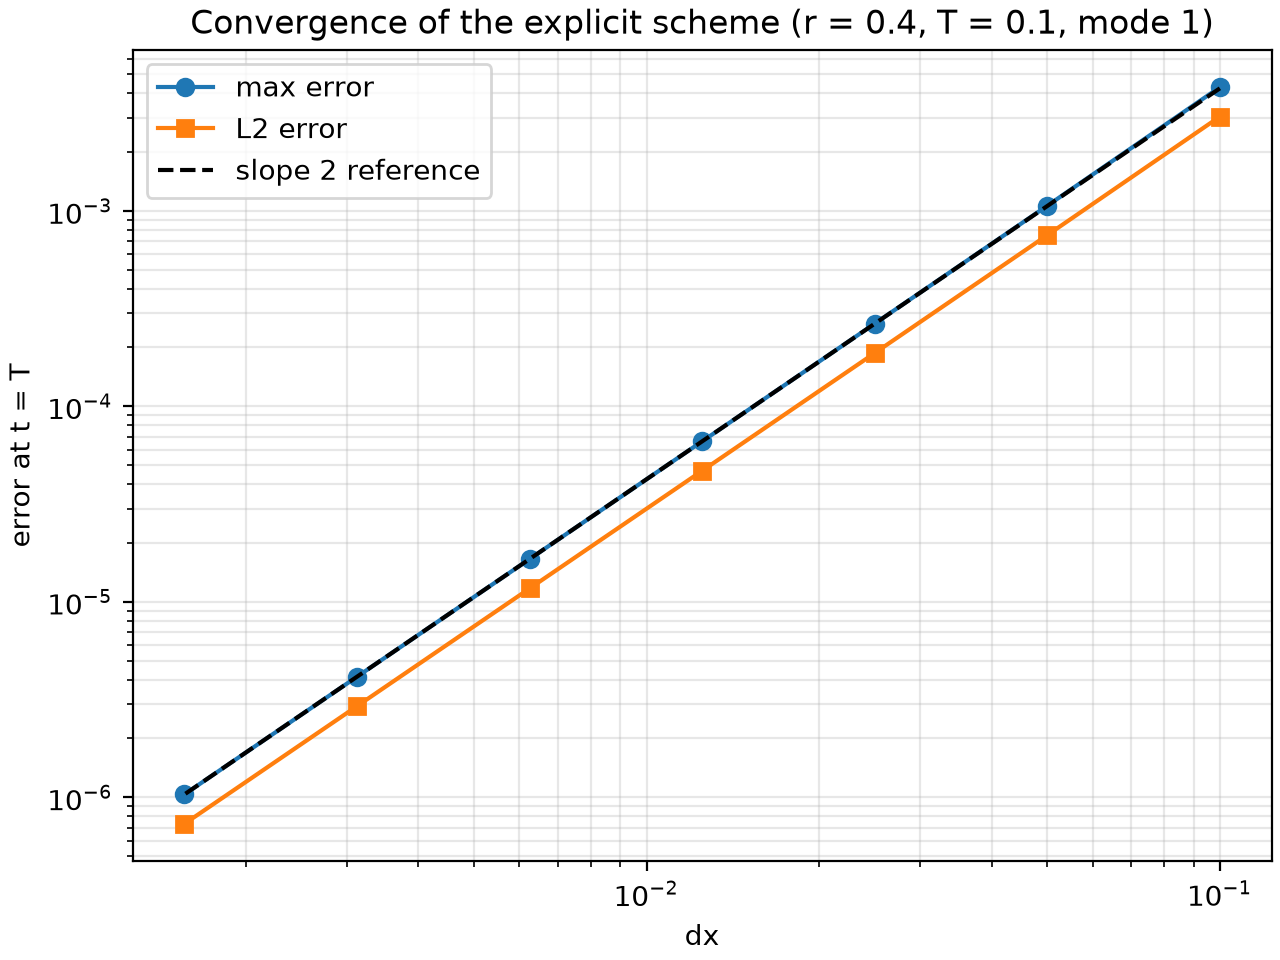
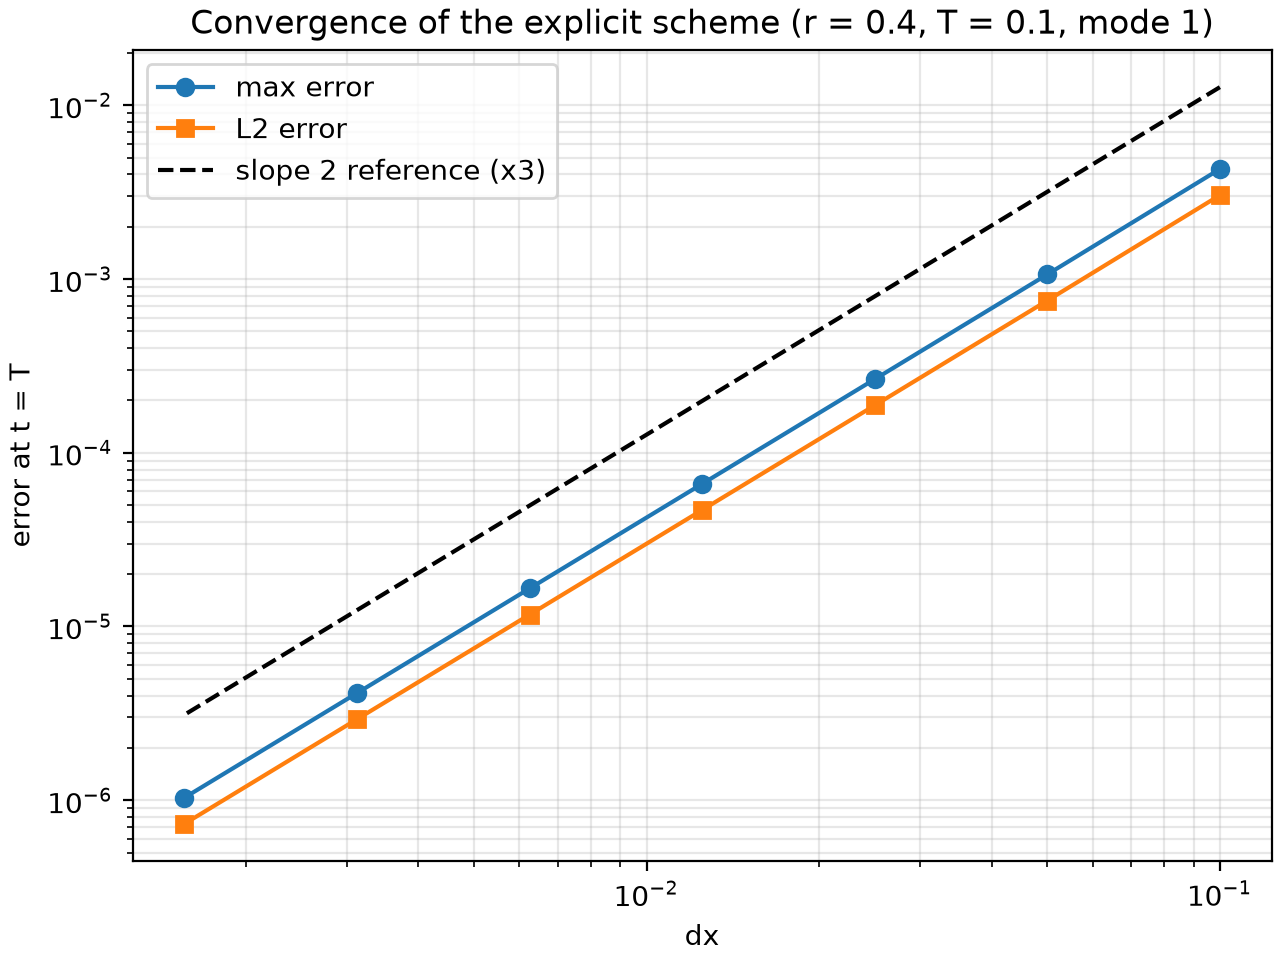
added offset to dashed slope 2 reference to highlight the fact that there are two lines

diff --git a/scripts/convergence.py b/scripts/convergence.py
@@ -10,6 +10,7 @@ import matplotlib.pyplot as plt
 from plot import load_blocks
 
 DEFAULT_NS = [10, 20, 40, 80, 160, 320, 640]
+REFERENCE_OFFSET = 3.0
 
 
 def parse_args(argv=None):
@@ -74,10 +75,13 @@ def time_steps(n, length, alpha, T, r):
     return int(rounded)
 
 
-def reference_line(dxs, errs, index, slope=2.0):
-    """Values at dxs of the line errs[index] * (dx/dxs[index])**slope."""
+def reference_line(dxs, errs, index, slope=2.0, offset=1.0):
+    """Values at dxs of the line offset * errs[index] * (dx/dxs[index])**slope.
+
+    offset=1 passes through the data point; other values shift the line by a constant factor.
+    """
     dxs = np.asarray(dxs, dtype=float)
-    return errs[index] * (dxs / dxs[index]) ** slope
+    return offset * errs[index] * (dxs / dxs[index]) ** slope
 
 
 def format_table(rows):
@@ -137,7 +141,11 @@ def draw_figure(rows, args):
     fig, ax = plt.subplots(constrained_layout=True)
     ax.loglog(dxs, max_errs, "o-", label="max error")
     ax.loglog(dxs, l2_errs, "s-", label="L2 error")
-    ax.loglog(dxs, reference_line(dxs, max_errs, len(dxs) // 2), "k--", label="slope 2 reference")
+    # shifted up by a constant factor so it does not hide the data it is parallel to
+    ax.loglog(
+        dxs, reference_line(dxs, max_errs, len(dxs) // 2, offset=REFERENCE_OFFSET), "k--",
+        label=f"slope 2 reference (x{REFERENCE_OFFSET:g})",
+    )
     ax.set_xlabel("dx")
     ax.set_ylabel("error at t = T")
     ax.set_title(f"Convergence of the explicit scheme (r = {args.r_req}, T = {args.T}, mode {args.mode})")

diff --git a/tests/test_convergence.cpp b/tests/test_convergence.cpp
@@ -15,8 +15,8 @@ TEST_CASE("Explicit scheme converges at r = 0.4 with max_error norm","[convergen
     const double T = 0.1;
     const double r_req = 0.4;
 
-    std::vector<std::size_t> n_intervals = {20,40,80,160,320};
-    std::vector<double> errors = {0.0,0.0,0.0,0.0,0.0};
+    std::vector<std::size_t> n_intervals = {10,20,40,80,160,320,640};
+    std::vector<double> errors(n_intervals.size(), 0.0);
     
     for ( std::size_t i = 0 ; i < n_intervals.size() ; i++ ){
         INFO("N = " << n_intervals[i]);
@@ -47,8 +47,8 @@ TEST_CASE("Explicit scheme converges at r = 0.4 with l2_error norm","[convergenc
     const double T = 0.1;
     const double r_req = 0.4;
 
-    std::vector<std::size_t> n_intervals = {20,40,80,160,320};
-    std::vector<double> errors = {0.0,0.0,0.0,0.0,0.0};
+    std::vector<std::size_t> n_intervals = {10,20,40,80,160,320,640};
+    std::vector<double> errors(n_intervals.size(), 0.0);
     
     for ( std::size_t i = 0 ; i < n_intervals.size() ; i++ ){
         INFO("N = " << n_intervals[i]);

diff --git a/tests/test_convergence_script.py b/tests/test_convergence_script.py
@@ -141,6 +141,12 @@ class ReferenceLineTest(unittest.TestCase):
         slope = math.log(ref[0] / ref[2]) / math.log(dxs[0] / dxs[2])
         self.assertAlmostEqual(slope, 2.0)
 
+    def test_offset_shifts_by_constant_factor_and_keeps_slope(self):
+        dxs, errs = [0.4, 0.2, 0.1], [9.0, 2.0, 0.5]
+        base = c.reference_line(dxs, errs, 1)
+        shifted = c.reference_line(dxs, errs, 1, offset=3.0)
+        np.testing.assert_allclose(shifted, 3.0 * base)
+
 
 @unittest.skipUnless(MAIN.is_file(), "release Main not built")
 class CrossCheckTest(unittest.TestCase):

diff --git a/README.md b/README.md
@@ -92,7 +92,7 @@ Fixed `r = 0.4`, `T = 0.1`, `L = 1`, `alpha = 1`, mode 1, halving `dx` each row.
 
 ![Convergence of the explicit scheme](docs/figures/convergence.png)
 
-The error falls by a factor of 4 each time the grid is halved, which is second-order convergence in `dx` (the points run parallel to the dashed slope-2 line). Because `r` is fixed, `dt = r dx^2 / alpha` shrinks with `dx^2` as well, so this is the combined space and time error, not the spatial error alone. The default run (`N = 100`, `n = 2500`) has a max error of 4.236e-5, which sits between the `N = 80` and `N = 160` rows as expected.
+The error falls by a factor of 4 each time the grid is halved, which is second-order convergence in `dx` (the points run parallel to the dashed slope-2 reference line, which is shifted up by a factor of 3 so it does not hide the data). Because `r` is fixed, `dt = r dx^2 / alpha` shrinks with `dx^2` as well, so this is the combined space and time error, not the spatial error alone. The default run (`N = 100`, `n = 2500`) has a max error of 4.236e-5, which sits between the `N = 80` and `N = 160` rows as expected.
 
 To reproduce the table and figure with one command (build the release binary first, run from the project root):
 
